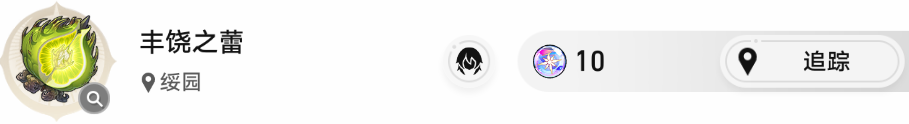
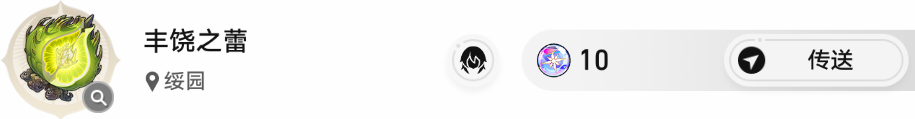
removed old notices replaced 2 img

diff --git a/SRAbeta_v_0_6.py b/SRAbeta_v_0_6.py
@@ -948,7 +948,7 @@ class MainWindow(QMainWindow):
             "\n"
             "问题修复：\n"
             "1.修复了在未填写兑换码时勾选此功能会导致程序崩溃的问题。\n"
-            "2.\n"
+            "2.修复了无法正常传送到精致色稿副本和万象果实副本的问题。\n"
             "3.\n"
             "4.\n"
             "\n感谢您对SRA的支持！",
